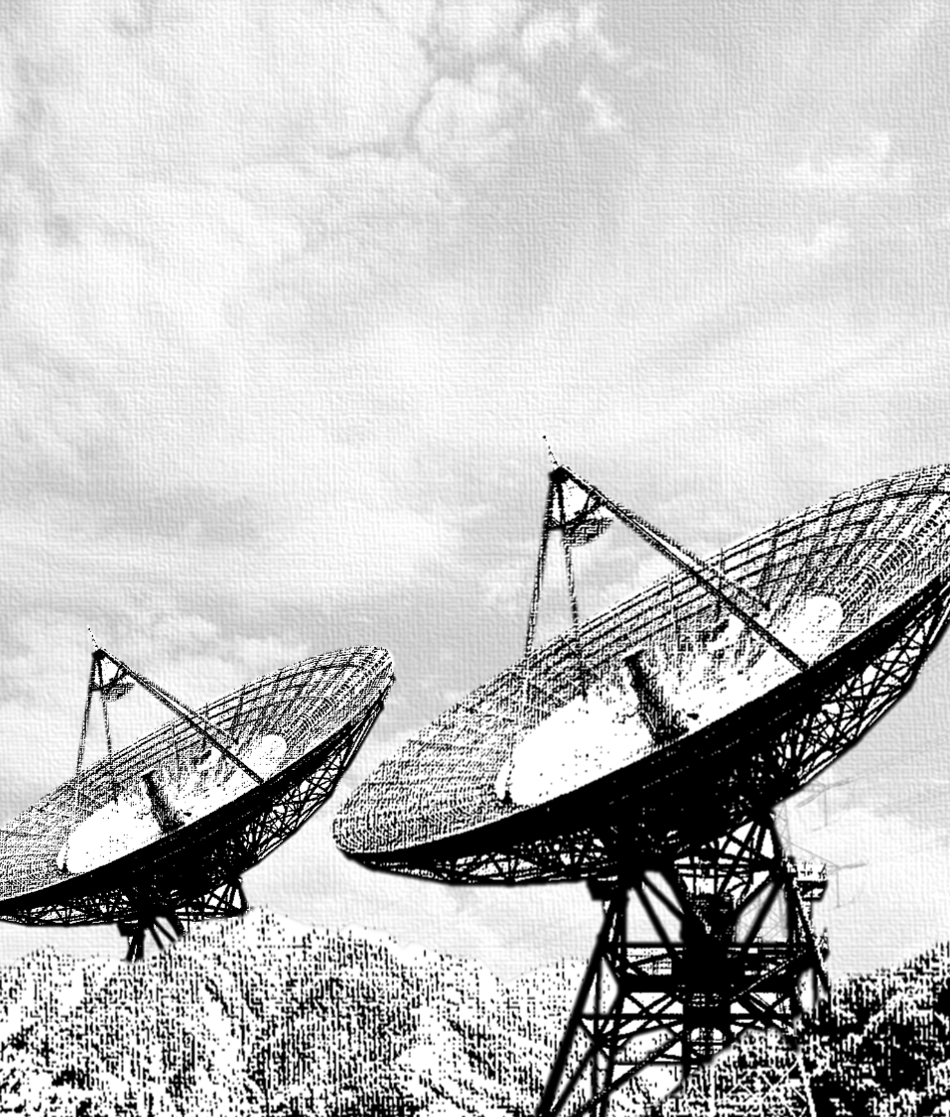
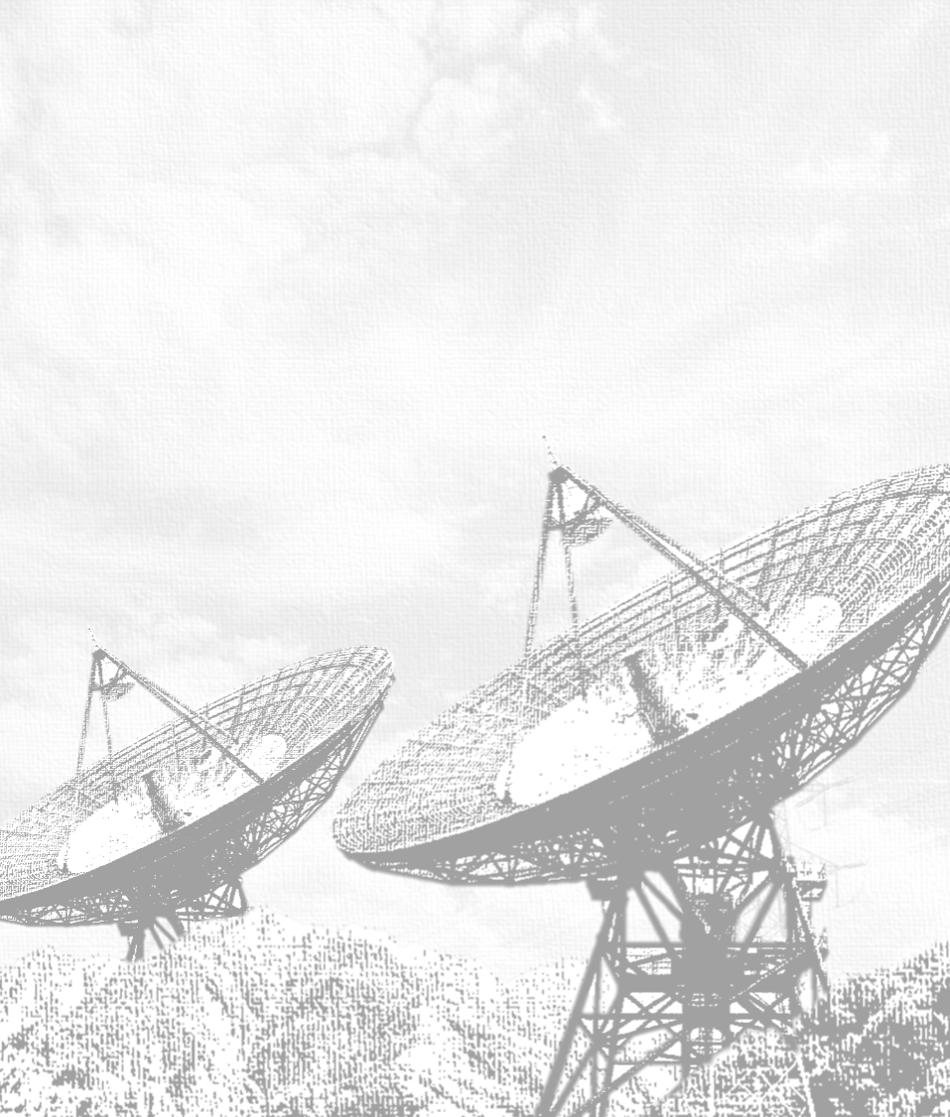
update

diff --git a/style.css b/style.css
@@ -321,21 +321,21 @@ body {
 .share-card-header {
   display: flex;
   flex-direction: column;
-  align-items: flex-end;
-  gap: 6px;
-  text-align: right;
-  color: #80d8ff;
+  align-items: flex-start;
+  gap: 4px;
+  text-align: left;
+  color: #000000;
   font-size: 11px;
   letter-spacing: 1px;
 }
 
-/* 電波受信記錄標題 */
+/* 電波受信記錄 */
 .share-card-header h2 {
-  margin: 0 0 8px;
+  margin: 0;
   font-size: 26px;
   font-weight: normal;
   line-height: 1.5;
-  text-align: right;
+  text-align: left;
 }
 
 /* TRANSMISSION 編號 */
@@ -345,47 +345,54 @@ body {
   letter-spacing: 1px;
 }
 
-/* 留言內容 */
+/* 留言內容：淡白色透明底 */
 #share-text {
   margin: 0;
+  padding: 16px;
   color: #ffffff;
   font-size: 16px;
   line-height: 2;
-  text-align: right;
+  text-align: left;
   white-space: pre-wrap;
   overflow-wrap: anywhere;
+
+  background: rgba(255, 255, 255, 0.18);
+  border: 1px solid rgba(255, 255, 255, 0.2);
+  border-radius: 4px;
 }
 
-/* 留言者與時間：維持靠左 */
+/* 留言者與時間：靠右 */
 .share-card-footer {
   display: flex;
   flex-direction: column;
-  align-items: flex-start;
+  align-items: flex-end;
   gap: 10px;
   font-size: 11px;
   color: #a9bbcb;
+  text-align: right;
 }
 
 #share-time {
   color: #687787;
 }
 
-/* 品牌名稱與標語：靠右下 */
+/* 品牌名稱：靠右下 */
 .share-brand {
   align-self: flex-end;
   width: 100%;
   margin-top: 16px;
   padding-top: 16px;
   border-top: 1px solid #42505e;
-  color: #80d8ff;
+  color: #000000;
   text-align: right;
   letter-spacing: 2px;
 }
 
+/* 標語：靠左下 */
 .share-slogan {
-  align-self: flex-end;
+  align-self: flex-start;
   color: #687787;
-  text-align: right;
+  text-align: left;
 }
 
 
